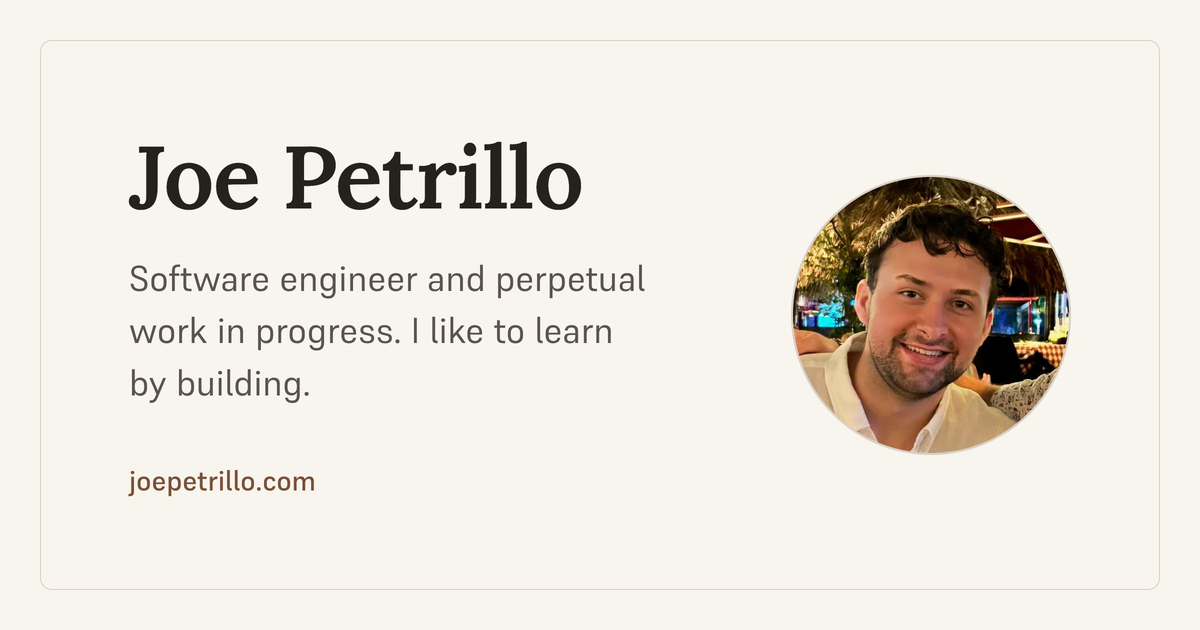
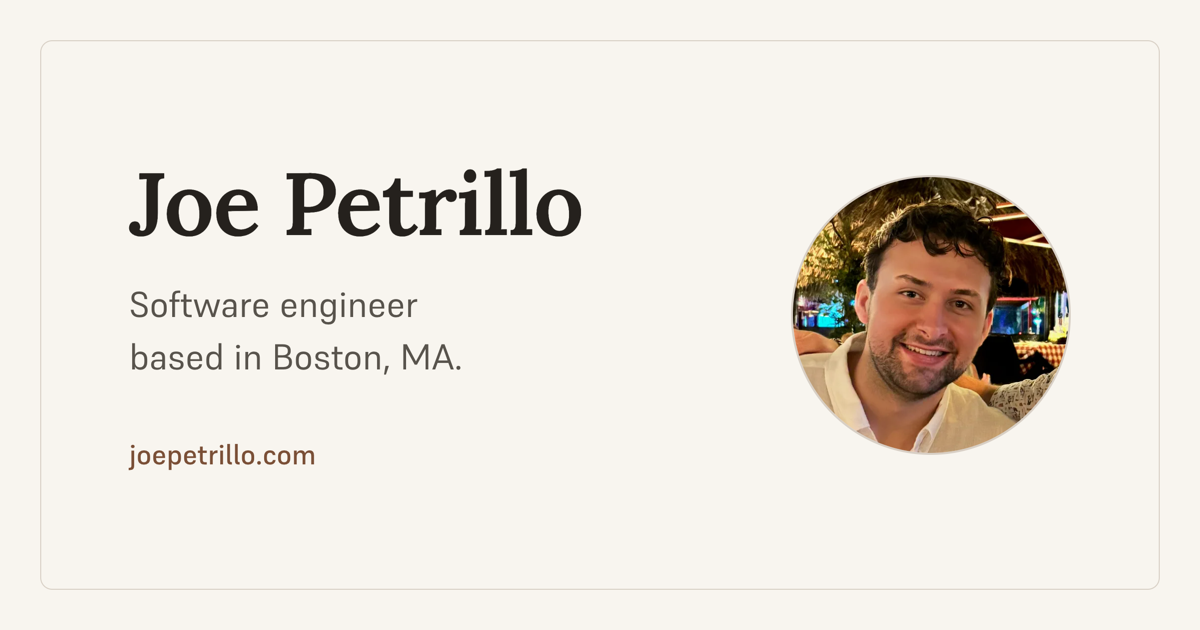
og image update

Changed region(s): [[0.0925, 0.4222, 0.555, 0.6333], [0.0925, 0.2111, 0.4933, 0.3921], [0.0925, 0.6937, 0.2775, 0.7841]]

diff --git a/src/data/site.ts b/src/data/site.ts
@@ -1,6 +1,5 @@
 export const SITE = {
-  description:
-    "Software engineer and perpetual work in progress. I like to learn by building.",
+  description: "Software engineer based in Boston, MA.",
   emailHref: "mailto:jpetrillo119@gmail.com",
   githubUrl: "https://github.com/joepetrillo",
   /** Set to true when the site is ready for search engines and archival crawlers. */
